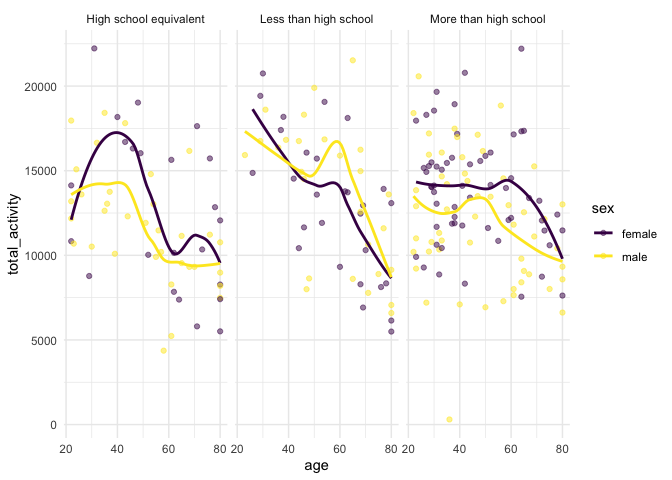
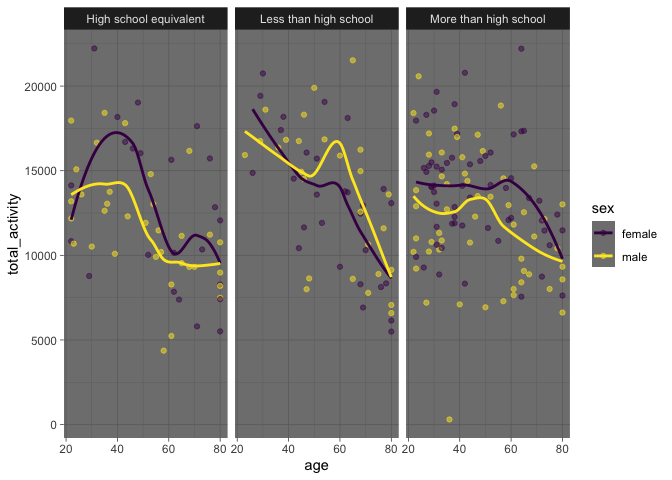
q3 done

diff --git a/p1805_hw3_hl3464.md b/p1805_hw3_hl3464.md
@@ -94,7 +94,7 @@ mvmt_df |>
   geom_point(alpha = 0.5)+
   geom_smooth(se = FALSE) +
   facet_grid(cols = vars(education))+
-  theme_minimal()
+  theme_dark()
 ```
 
 ![](p1805_hw3_hl3464_files/figure-gfm/unnamed-chunk-3-1.png)<!-- -->
@@ -153,3 +153,215 @@ mvmt_plt + coord_cartesian(ylim = c(0, 30))
   activity bouts are around 2 bouts at low and around 15 bouts at high.
 - Some people with a more than high school education level are pretty
   active (activity around 60) from 6am to around 9 or 10am.
+
+## Problem 3
+
+``` r
+jan_20_df <- read_csv("citibike/Jan 2020 Citi.csv") |> 
+  janitor::clean_names() |> 
+  mutate(
+    year = 2020,
+    month = 'january'
+  ) |> 
+  relocate(year, month)
+
+jan_24_df <- read_csv("citibike/Jan 2024 Citi.csv")|> 
+  janitor::clean_names()|> 
+  mutate(
+    year = 2024,
+    month = 'january'
+  ) |> 
+  relocate(year, month)
+
+jul_20_df <- read_csv("citibike/July 2020 Citi.csv") |> 
+  janitor::clean_names()|> 
+  mutate(
+    year = 2020,
+    month = 'july'
+  ) |> 
+  relocate(year, month)
+
+jul_24_df <- read_csv("citibike/July 2024 Citi.csv") |> 
+  janitor::clean_names()|> 
+  mutate(
+    year = 2024,
+    month = 'july'
+  ) |> 
+  relocate(year, month)
+
+citi_bike_df <-rbind(jan_20_df, jan_24_df, jul_20_df, jul_24_df)
+```
+
+- The merged citi bike data set has 9 variables including year, month,
+  ride_id, rideable_type, weekdays, duration, start_station_name,
+  end_station_name, and member_casual.
+- The merged citi bike data set has 99485 observations.
+
+the total number of rides in each combination of year and month
+separating casual riders and Citi Bike members
+
+``` r
+citi_bike_df |> 
+  group_by(year,month, member_casual) |> 
+  count(member_casual) |> 
+  pivot_wider(
+    names_from = member_casual,
+    values_from = n
+  )
+```
+
+    ## # A tibble: 4 × 4
+    ## # Groups:   year, month [4]
+    ##    year month   casual member
+    ##   <dbl> <chr>    <int>  <int>
+    ## 1  2020 january    984  11436
+    ## 2  2020 july      5637  15411
+    ## 3  2024 january   2108  16753
+    ## 4  2024 july     10894  36262
+
+- In January 2020, there were 984 casual riders and 11436 members.
+- in July 2929, there were 5637 casual riders and 15411 members.
+- In January 2024, there were 2108 casual riders and 16753 members.
+- In July 2024, there were 10894 casual riders and 36262 members.
+- There was an increasing number of people using citi bikes collected by
+  this data set.
+
+most popular starting station for 07/24
+
+``` r
+citi_bike_df |> 
+  filter(year == 2024, month == "july") |> 
+  count(start_station_name,
+        name = "number_of_rides_from_start_station",
+        sort = TRUE) |> 
+  slice_head(n=5)
+```
+
+    ## # A tibble: 5 × 2
+    ##   start_station_name       number_of_rides_from_start_station
+    ##   <chr>                                                 <int>
+    ## 1 Pier 61 at Chelsea Piers                                163
+    ## 2 University Pl & E 14 St                                 155
+    ## 3 W 21 St & 6 Ave                                         152
+    ## 4 West St & Chambers St                                   150
+    ## 5 W 31 St & 7 Ave                                         146
+
+plotting
+
+``` r
+plt_weekdays <-
+  citi_bike_df |> 
+  mutate(weekdays = factor(weekdays, levels = c("Monday", "Tuesday", "Wednesday",
+                                                "Thursday", "Friday", "Saturday", "Sunday"))) |> 
+  group_by(weekdays) |> 
+  summarize(median_duration = median(duration, na.rm = TRUE)) |> 
+  ggplot(aes(x = weekdays, y = median_duration, group = 1)) +
+  geom_point() + 
+  geom_line(color = "pink4") + 
+  labs(
+    x = "Day of week",
+    y = "Median Ride Duration"
+  ) +
+  theme_minimal()
+
+plt_year <-
+  citi_bike_df |> 
+  mutate(year = factor(year, levels = c(2020, 2024))) |> 
+  group_by(year) |> 
+  summarize(median_duration = median(duration, na.rm = TRUE)) |> 
+  ggplot(aes(x = year, y = median_duration, group = 1)) +
+  geom_point() + 
+  geom_line(color = "pink4") + 
+  labs(
+    x = "Year",
+    y = "Median Ride Duration"
+  ) +
+  theme_minimal()
+
+plt_month <- 
+  citi_bike_df |> 
+  group_by(month) |> 
+  summarize(median_duration = median(duration, na.rm = TRUE)) |> 
+  ggplot(aes(x = month, y = median_duration, group = 1)) +
+  geom_point() + 
+  geom_line(color = "pink4") + 
+  labs(
+    x = "Month",
+    y = "Median Ride Duration"
+  ) +
+  theme_minimal()
+
+plt_weekdays/(plt_month | plt_year)
+```
+
+![](p1805_hw3_hl3464_files/figure-gfm/unnamed-chunk-8-1.png)<!-- -->
+
+- A very obvious increase in the median ride duration on the weekends
+  compared to the weekdays.
+
+- Median ride duration also increased in July compared to January and
+  decreased in 2024 compared to 2020.
+
+2024 data
+
+``` r
+plt_month_24 <-
+  citi_bike_df |> 
+    filter(year == 2024) |> 
+    group_by(month) |> 
+    ggplot(aes(x = month, y = duration, color = month)) + 
+    geom_boxplot() + 
+    labs(
+      x = "Month in 2024",
+      y = "Ride Duration"
+    ) + 
+  theme_dark()
+
+plt_membership_24 <- 
+  citi_bike_df |> 
+  filter(year == 2024) |> 
+  group_by(member_casual) |> 
+  ggplot(aes(x = member_casual, y = duration, color = member_casual)) + 
+  geom_boxplot() + 
+  scale_color_viridis_d(begin = 0.3, end = 0.7) +
+  labs(
+    x = "Membership status",
+    y = "Ride Duration"
+  )
+
+plt_bike_type <-
+  citi_bike_df |> 
+  filter(year == 2024) |> 
+  group_by(rideable_type) |> 
+  ggplot(aes(x = rideable_type, y = duration, color = rideable_type)) + 
+  geom_boxplot() + 
+  scale_color_viridis_d(option = "rocket") +
+  labs(
+    x = "Bike Type",
+    y = "Ride Duration",
+    color = "Bike Type"
+  ) + 
+  theme_dark()
+
+plt_month_24/(plt_membership_24 | plt_bike_type)
+```
+
+![](p1805_hw3_hl3464_files/figure-gfm/unnamed-chunk-9-1.png)<!-- -->
+
+zoom in to y in (0,30)
+
+``` r
+(plt_month_24 / (plt_membership_24 | plt_bike_type)) &
+  coord_cartesian(ylim = c(0, 30))
+```
+
+![](p1805_hw3_hl3464_files/figure-gfm/unnamed-chunk-10-1.png)<!-- -->
+
+- the duration distribution of all kinds of comparisons are pretty
+  spread out.
+- interestingly, across all comparisons, median ride duration was around
+  8 to 15.
+- still, in 2024, ride duration increased in july compared to januray;
+  casual riders had a higher ride duration compared to citi bike
+  members; and electric bike users had a slightly higher ride duration
+  compared to classic bike users.
